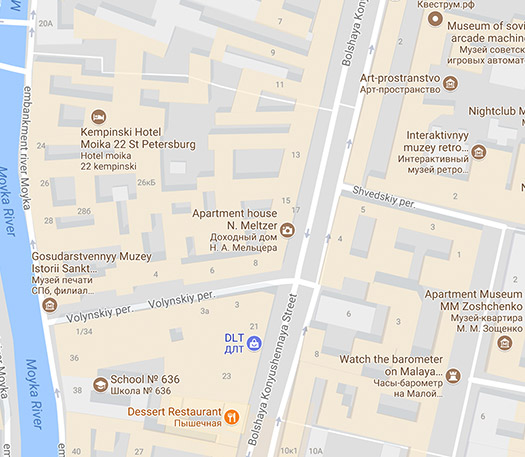
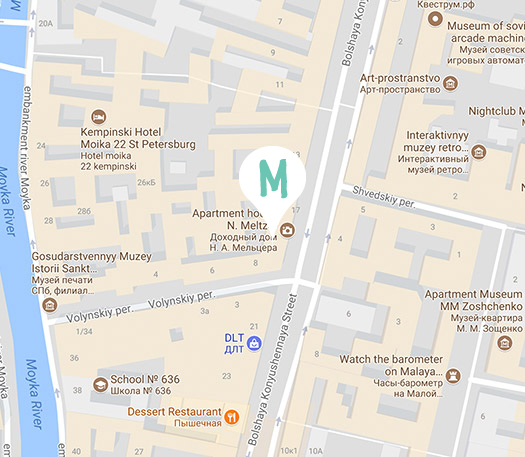
закончил верстку главной, теперь точно

Changed region(s): [[0.4571, 0.3063, 0.6095, 0.5208]]

diff --git a/source/less/contacts.less b/source/less/contacts.less
@@ -124,3 +124,49 @@
     }
   }
 }
+
+@media (min-width: @width-desktop) {
+  .contacts {
+    position: relative;
+
+    flex-direction: row;
+    flex-wrap: wrap;
+    padding-top: 80px;
+    padding-right: 576px;
+    padding-left: 175px;
+    padding-bottom: 100px;
+
+    &__headline {
+      margin-left: 0;
+      margin-right: 0;
+
+      .font(53px; 57px; bold);
+    }
+
+    &__headline::before {
+      right: initial;
+      left: -111px;
+    }
+
+    &__address {
+      margin: 0;
+      flex-wrap: wrap;
+    }
+
+    &__button {
+      margin-left: 0;
+      margin-bottom: 0;
+    }
+
+    &__map {
+      position: absolute;
+      z-index: -1;
+      bottom: 100px;
+      right: 50px;
+
+      .size(525px; 457px);
+
+      background-image: url("../img/map-desktop@1x.jpg");
+    }
+  }
+}
